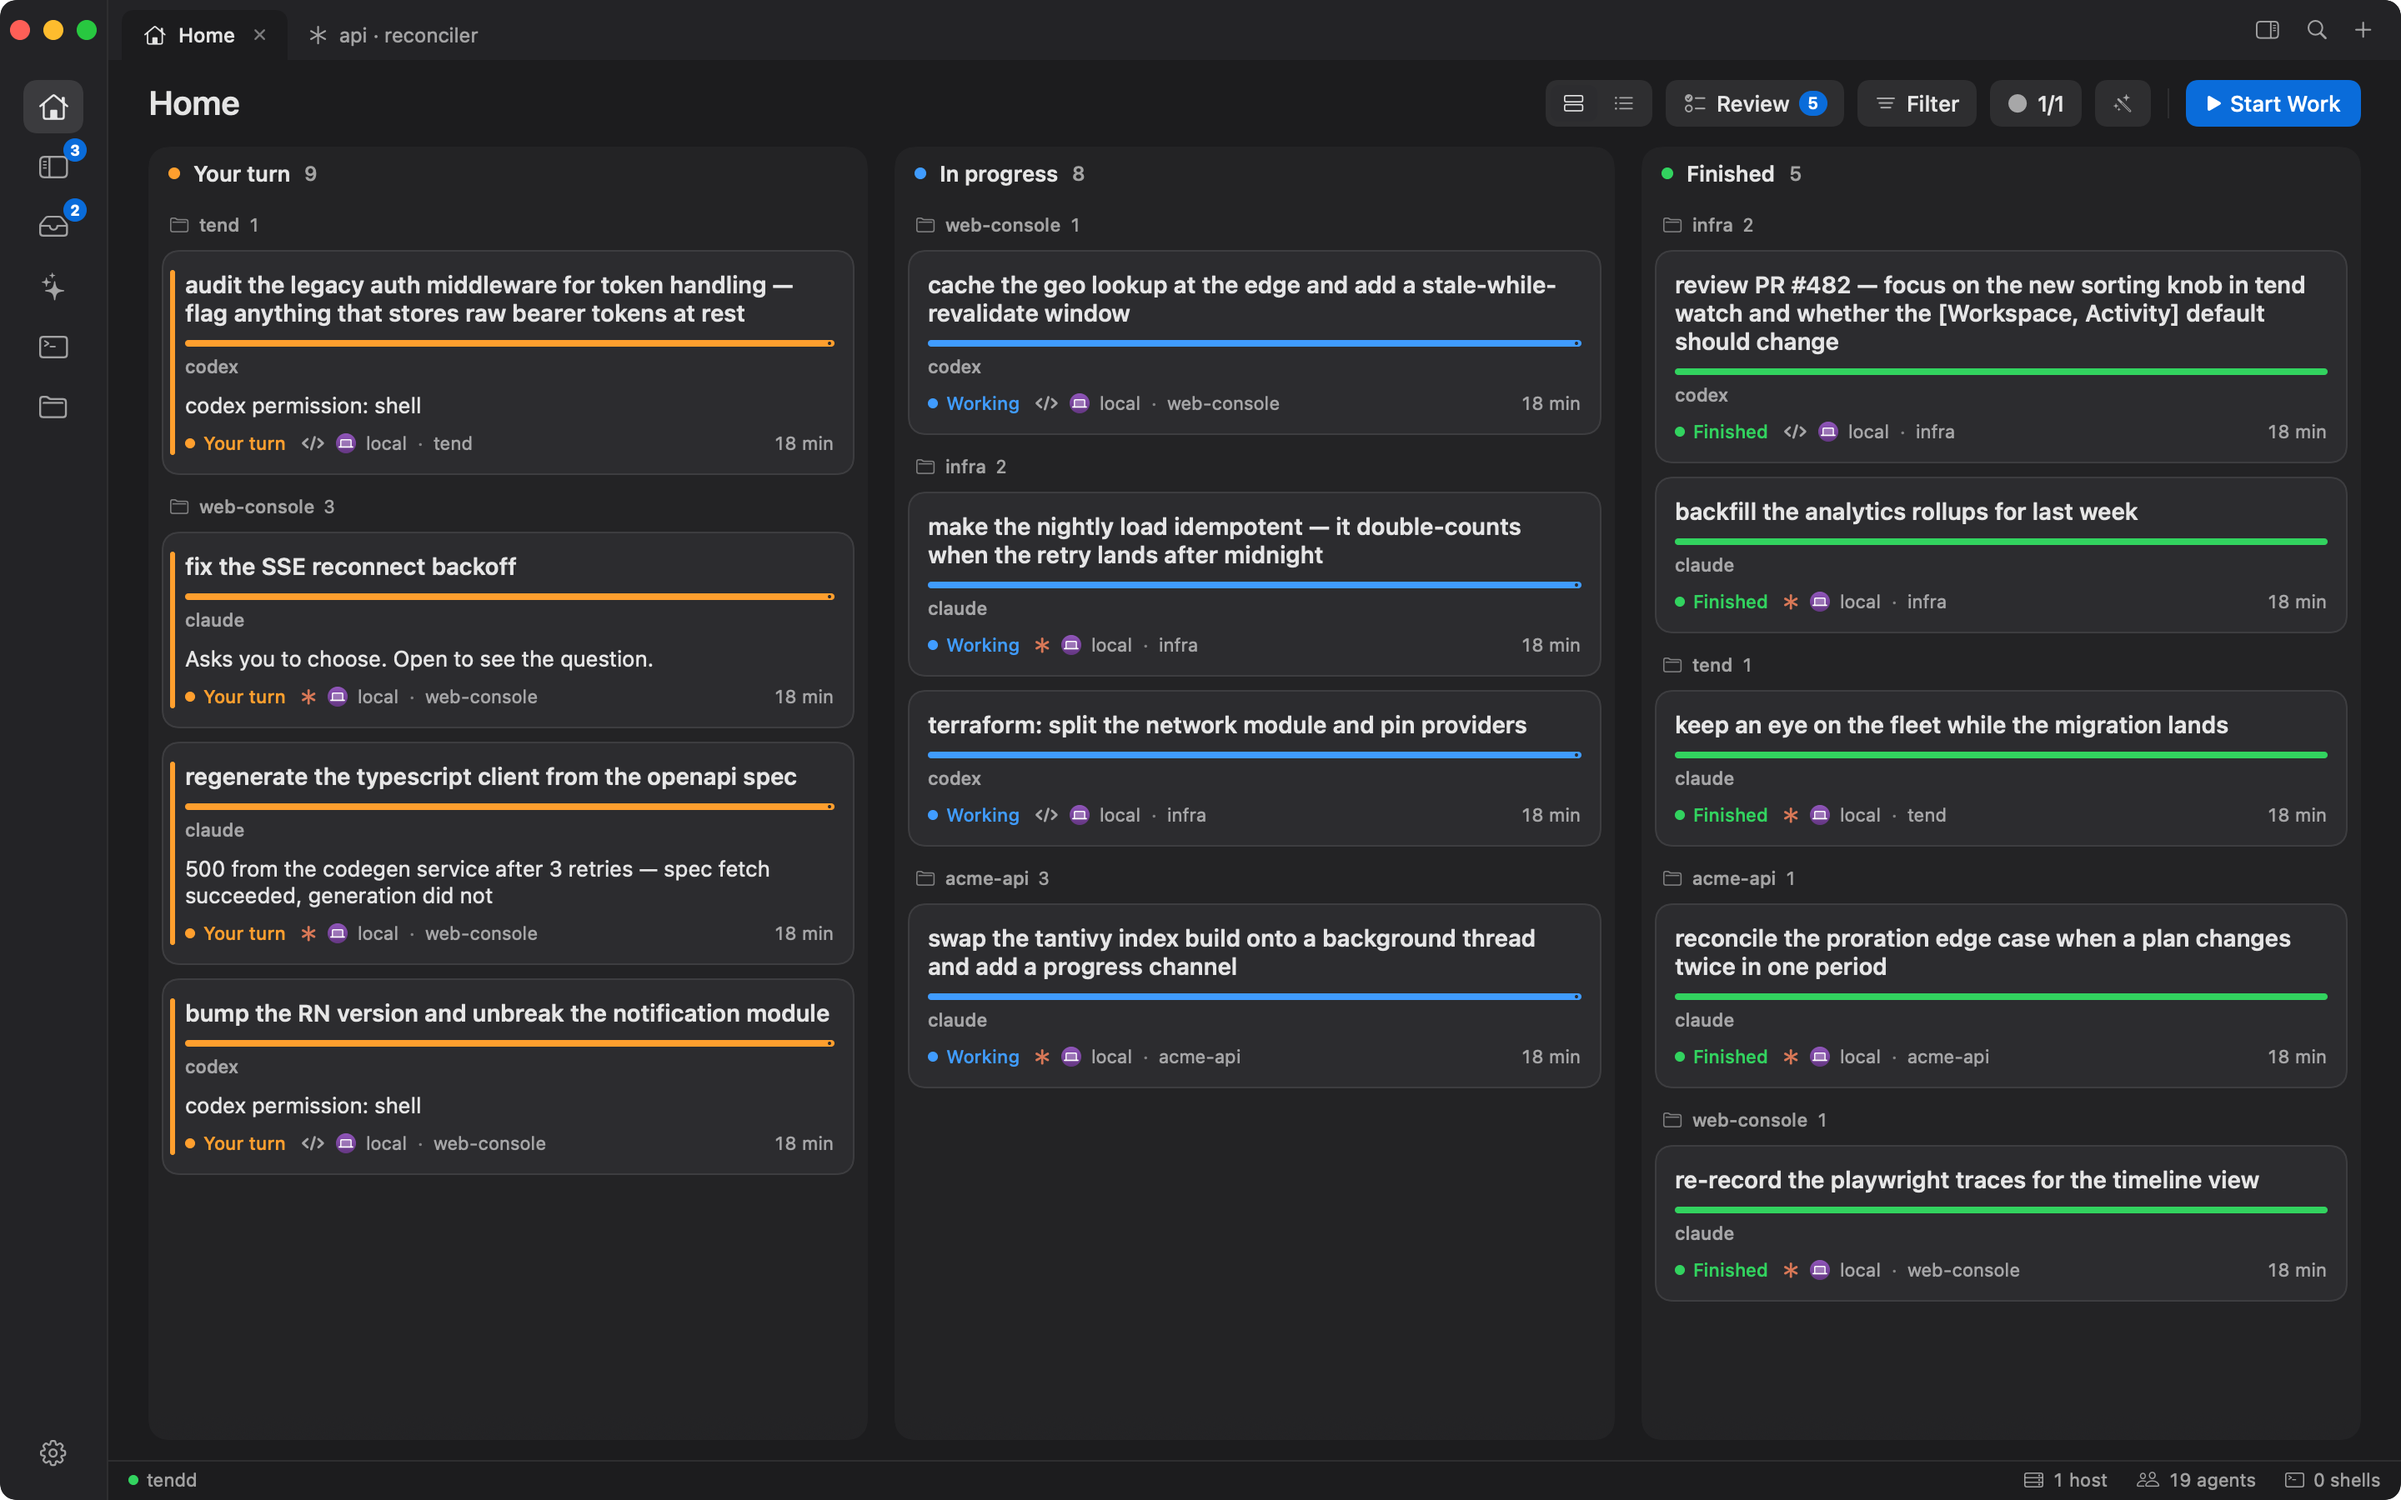
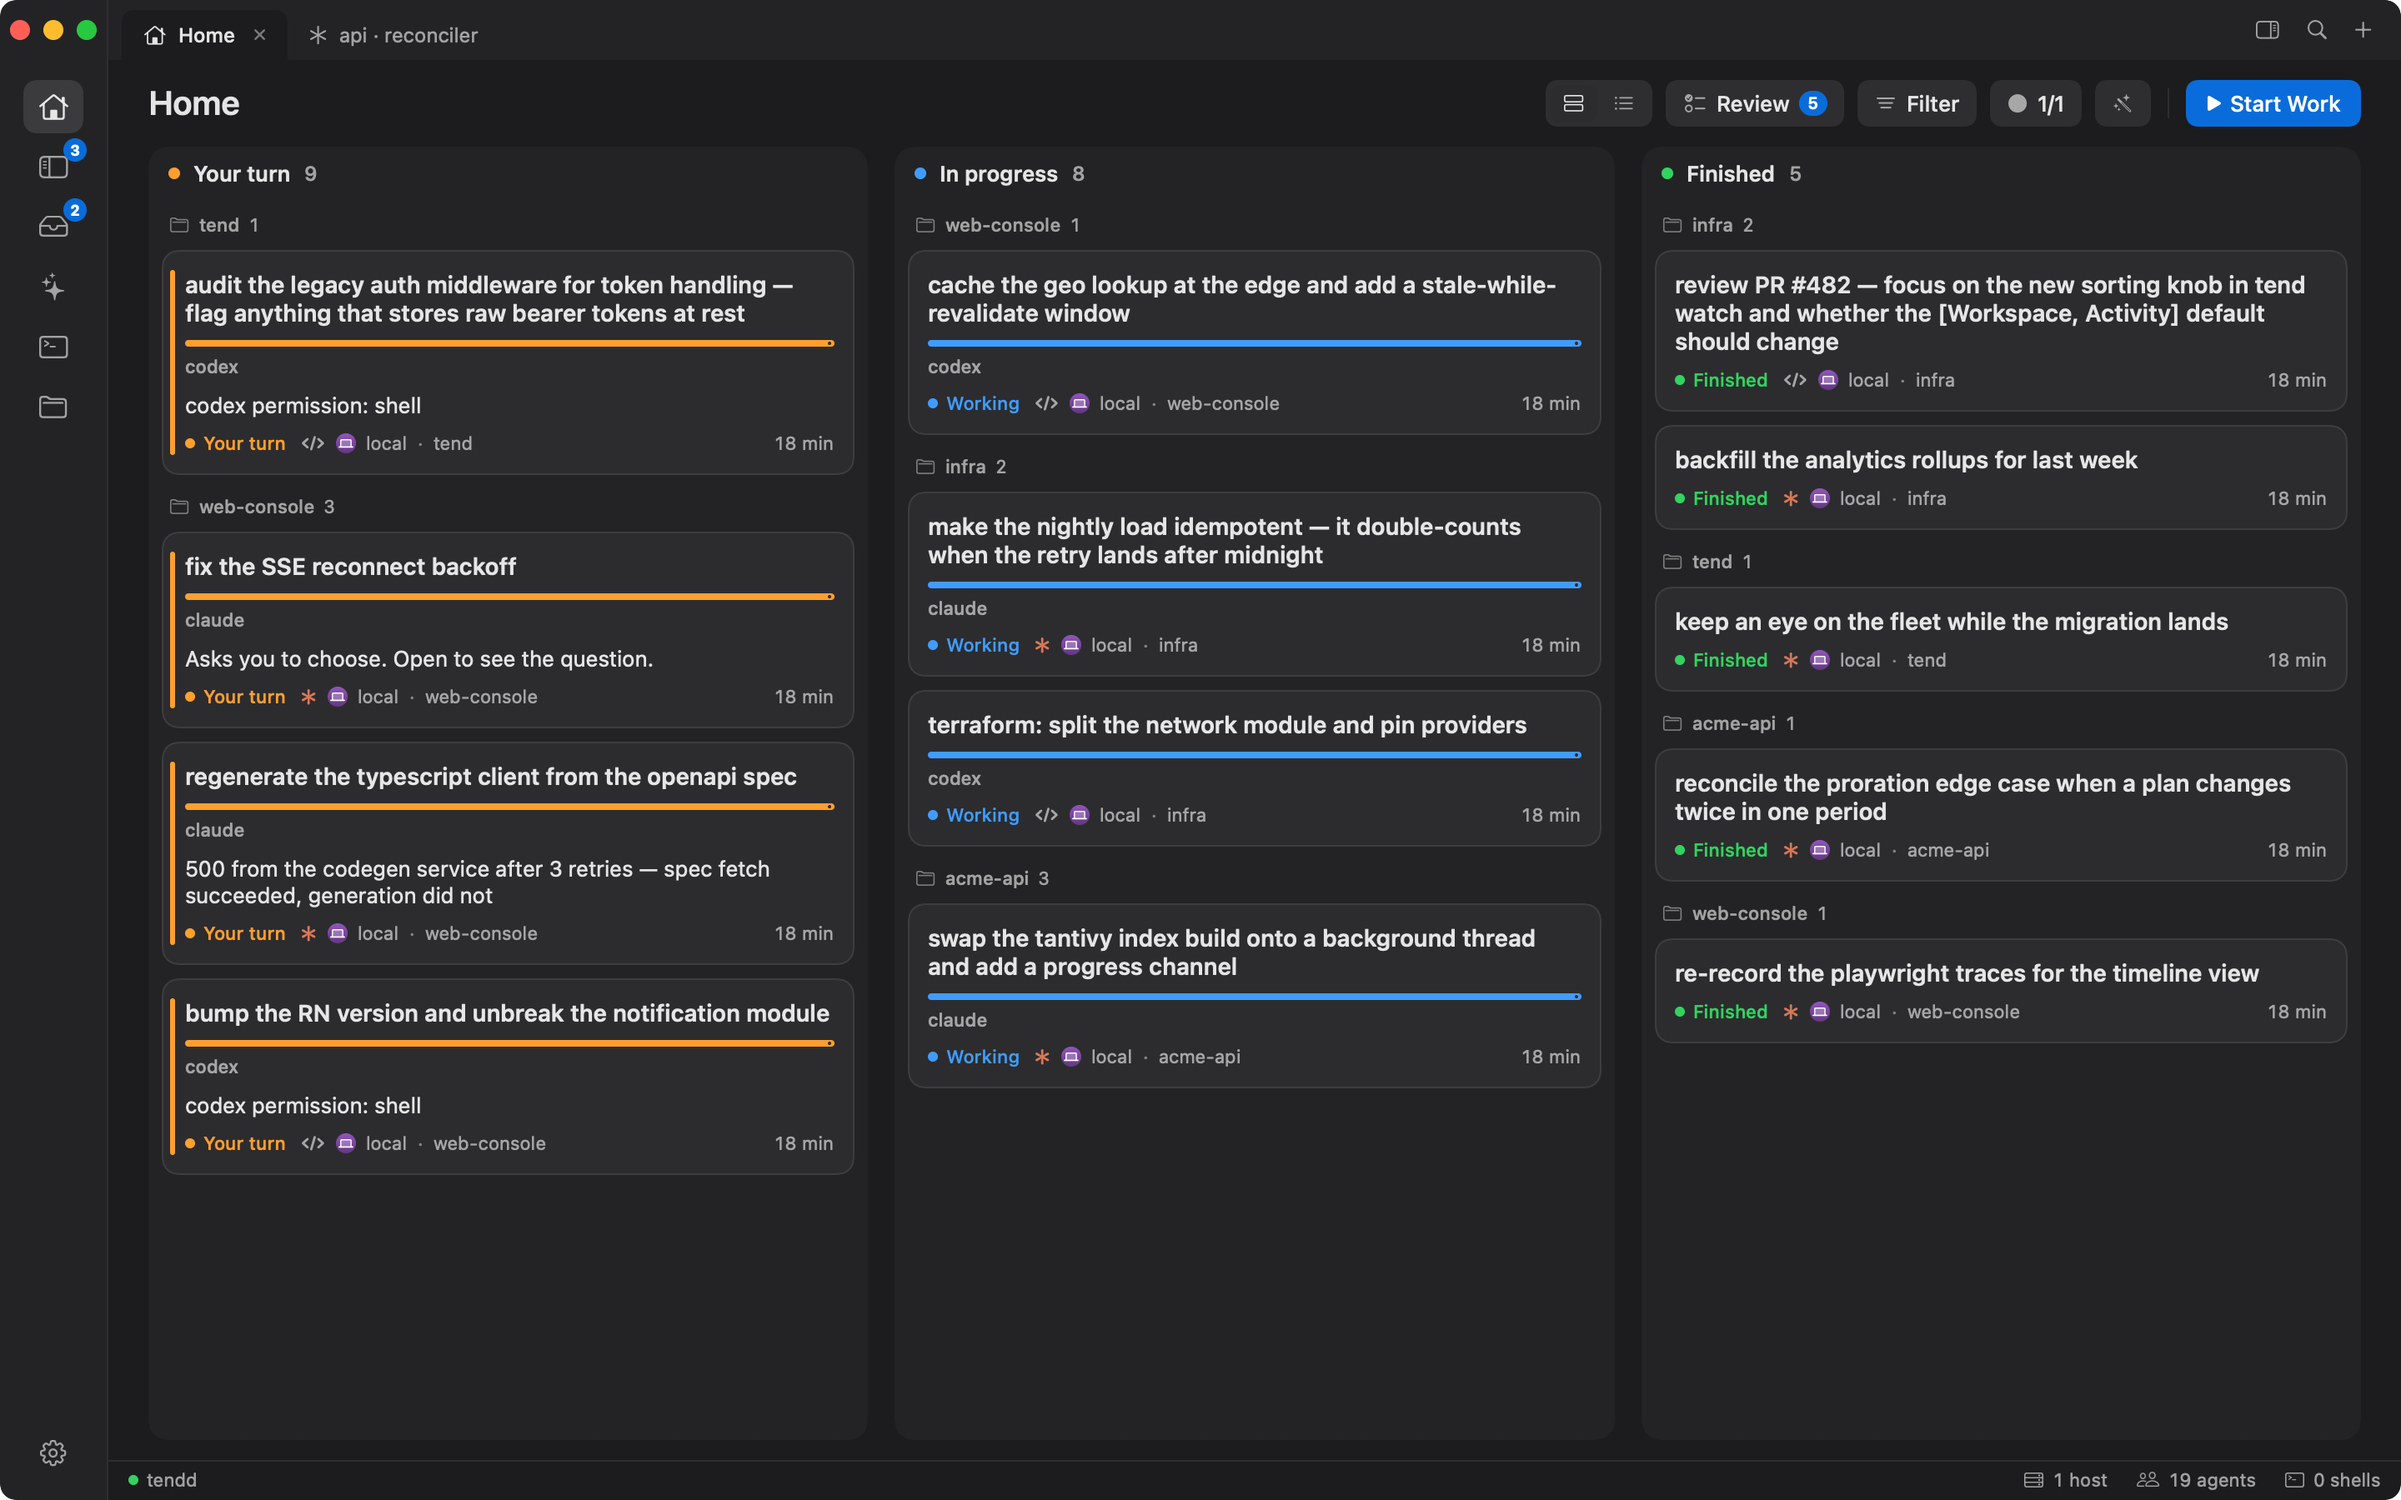
docs(design): fold in the review's component acceptance details

diff --git a/docs/proposals/mac-design/mockups.swift b/docs/proposals/mac-design/mockups.swift
@@ -199,13 +199,15 @@ struct StageBar: View {
     @Environment(\.palette) var p
     let stages: [StageState]
     let current: String
+    /// FleetWork.currentStageIndex: the named stage, marked by shape too.
+    var currentIndex: Int? = nil
     var body: some View {
         VStack(alignment: .leading, spacing: Space.xs + 1) {
             HStack(spacing: 3) {
-                ForEach(Array(stages.enumerated()), id: \.offset) { _, state in
+                ForEach(Array(stages.enumerated()), id: \.offset) { index, state in
                     Capsule().fill(color(state)).frame(height: 4)
                         .overlay(alignment: .trailing) {
-                            if state == .running || state == .needsYou {
+                            if index == (currentIndex ?? stages.firstIndex { $0 == .running || $0 == .needsYou }) {
                                 Circle().fill(p.card).frame(width: 2, height: 2).padding(.trailing, 2)
                             }
                         }
@@ -235,7 +237,7 @@ struct OptionList: View {
                 if i > 0 { Rectangle().fill(p.hairline).frame(height: 1).padding(.leading, 34) }
                 HStack(alignment: .firstTextBaseline, spacing: Space.s) {
                     Text("\(i + 1)").font(.system(size: 11, weight: .semibold).monospacedDigit())
-                        .foregroundStyle(p.secondary)
+                        .foregroundStyle(p.label)
                         .frame(width: 18, height: 18)
                         .background(p.control, in: RoundedRectangle(cornerRadius: 5))
                     Text(option).font(Ramp.body).foregroundStyle(p.label).fixedSize(horizontal: false, vertical: true)
@@ -262,7 +264,7 @@ struct Evidence: View {
             }
             HStack(alignment: .firstTextBaseline, spacing: Space.xs + 1) {
                 Image(systemName: "lightbulb").font(.system(size: 10)).foregroundStyle(p.secondary)
-                Text(recommendation).font(Ramp.secondary).foregroundStyle(p.secondary).fixedSize(horizontal: false, vertical: true)
+                Text(recommendation).font(Ramp.body).foregroundStyle(p.label).fixedSize(horizontal: false, vertical: true)
             }
         }
     }
@@ -543,7 +545,8 @@ struct HomeMock: View {
     func work(_ title: String, _ stages: [StageState], _ stage: String, _ headline: String?, _ status: (Color, String), _ agent: String, _ project: String, waiting: Bool = false) -> some View {
         Card(state: waiting ? p.orange : nil) {
             Text(title).font(Ramp.cardTitle).foregroundStyle(p.label).lineLimit(3).fixedSize(horizontal: false, vertical: true)
-            StageBar(stages: stages, current: stage)
+            // Today's rule: a single-stage Finished card has no stage bar.
+            if !(stages == [.done]) { StageBar(stages: stages, current: stage) }
             if let headline {
                 Text(headline).font(Ramp.body).foregroundStyle(p.label).fixedSize(horizontal: false, vertical: true)
             }
@@ -820,7 +823,7 @@ struct DecisionMock: View {
                 Text("The migration touches every host's data directory.").font(Ramp.body).foregroundStyle(p.label)
                 HStack(alignment: .firstTextBaseline, spacing: Space.xs + 1) {
                     Image(systemName: "lightbulb").font(.system(size: 10)).foregroundStyle(p.secondary)
-                    Text("Flag first").font(Ramp.secondary).foregroundStyle(p.secondary)
+                    Text("Flag first").font(Ramp.body).foregroundStyle(p.label)
                 }
                 OptionList(options: [
                     "Ship it behind a flag first, enable it on jiun-mini for a day, then turn it on for every host once the nightly backup finished cleanly",

diff --git a/docs/proposals/MAC_DESIGN.md b/docs/proposals/MAC_DESIGN.md
@@ -80,12 +80,15 @@ Eight roles, three weights (regular, medium, semibold), all the system font
 | Card title | 14 / 19 | semibold | what a card or row is about |
 | Section | 13 / 16 | semibold | lane headers, sheet sections |
 | Body | 13 / 18 | regular | **decision text**: questions, options, answers, notes |
-| Secondary | 12 / 16 | regular | the line under a title, evidence, recommendation |
+| Secondary | 12 / 16 | regular | the line under a title, evidence labels |
 | Label | 11 / 14 | medium | short labels only: kind, status word, stage, badge |
 | Meta | 11 / 14 | regular, tabular digits | who, where, when |
 | Mono | 12 / 16 | regular | commands, paths, pane text |
 
-Nothing a decision rests on is under 13pt; 11pt is for short annotations.
+Decision-bearing prose (the question, its context, options, the asker's
+recommendation and rationale, answers) is Body, 13pt. Evidence keeps its
+full accessible label and its reveal path. 11pt is for short metadata and
+labels only.
 
 **Text size.** macOS has no user-facing Dynamic Type for SwiftUI apps
 (`dynamicTypeSize` does not follow a system setting on the Mac), so this
@@ -206,6 +209,25 @@ shared keys and changes no shared value. Shared identity and state meanings
 stay as they are. Changing a value for the web or iOS goes through their
 owners (%77, %56), with their own captures.
 
+### Acceptance details for the component PRs (agreed with the reviewer)
+- Numbered option chips use label ink (secondary on the chip fill is 4.4:1
+  in dark).
+- The primary button's pressed state is an opaque, darker fill. Today's
+  `tint.opacity(0.78)` would put white on 3.7:1. Real `Button` semantics,
+  focus, disabled and destructive states, and accessible names on
+  icon-only controls stay.
+- StatusTag takes its context. On any selected or tinted surface the word is
+  label ink.
+- The stage bar keeps today's projection. The marker sits only on
+  `FleetWork.currentStageIndex`, since stages can run in parallel. It needs a
+  non-colour cue that survives 1×: light done and your-turn fills are about
+  2.5:1 on white and the track is 1.5:1. VoiceOver reads the stage name,
+  state and count together. A single-stage Finished card has no bar, as today.
+- Cards wrap the existing contents and interactions; the chrome changes, the
+  behaviour does not. Full titles stay accessible when visually limited.
+- At narrow widths the who-and-where row may wrap or split. The Hosts control
+  keeps its label, help and connected / degraded cue.
+
 ## 3. Density
 
 Measured on the same fixture fleet: the before set from the CI capture, the
@@ -214,11 +236,13 @@ after set from the mockups with the same cards, groups and titles.
 | | Before 1440×900 | After 1440×900 | After 920×580 (minimum) |
 |---|---|---|---|
 | First-viewport cards: Your turn / In progress / Finished | 4 / 4 / 5 | 4 / 4 / 5 | 2 / 2 / 3 |
-| Titles cut with "…" | 2 of 13 visible | none (wrap to 3 lines) | none |
+| Titles cut with "…" | 2 of 13 visible | none (wrap to 3 lines) | some in Korean at the minimum |
 | A card's state said twice ("Working" in a box and in the status line) | every running and finished card | never | never |
 | Status, product, host, project, time on every card | yes | yes, one row | yes |
 
-The after board shows as many cards per viewport as today. It drops the
+The after sample places only the first 4 / 4 / 5 cards, so it shows that a
+viewport reads the same first cards, not its maximum capacity. At normal width
+it shows as many cards per viewport as today. It drops the
 inset box that repeated the state, and the lane hint, so titles get room to
 wrap instead of being cut. The capture has no minimum-width before shot, and
 neither set yet covers more than one host or the compact layout after. The
